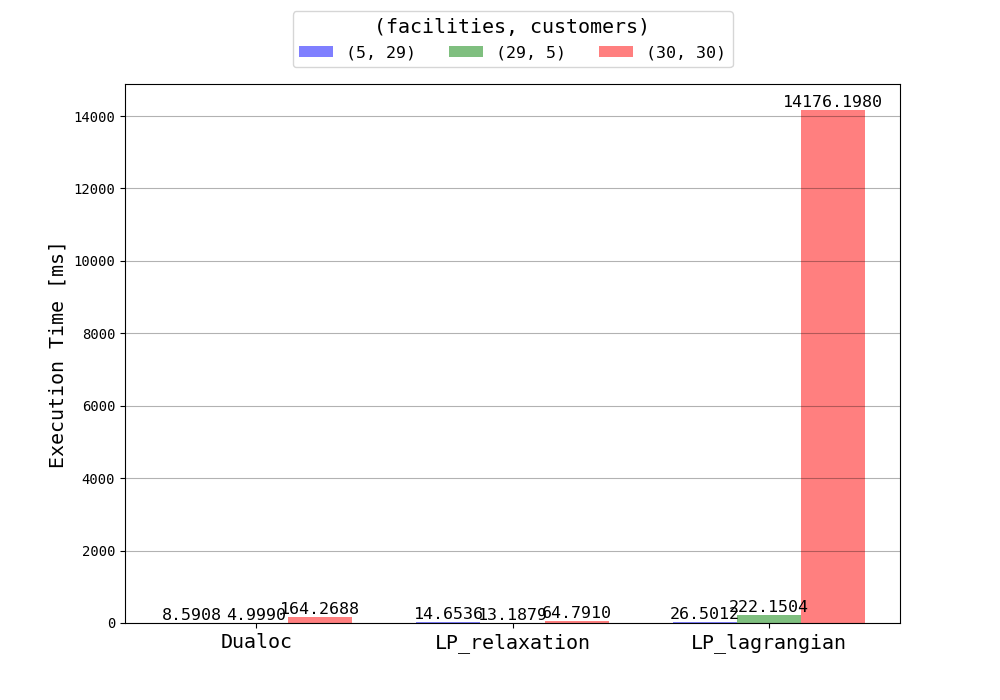
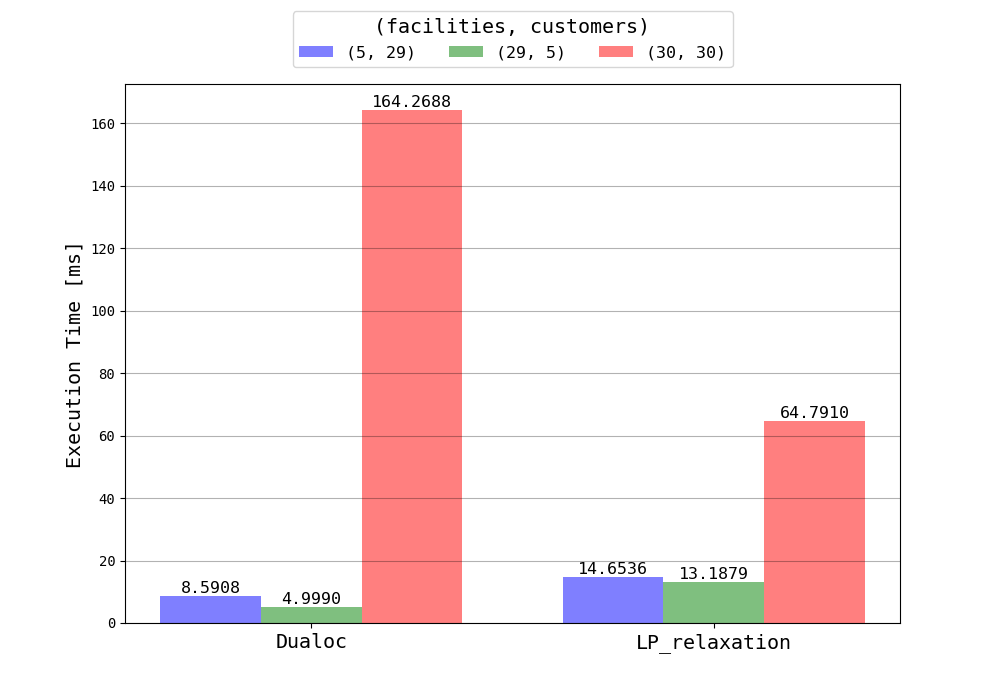
charts added

diff --git a/src/performance/test.py b/src/performance/test.py
@@ -81,9 +81,9 @@ class Test:
             chart = Chart()
 
             chart.error_chart(local_path, self.path +
-                              'chart_error_' + str(t) + '.png', ["Dualoc", "LP_relaxation", "LP_lagrangian"], 0.25)
+                              'chart_error_' + str(t) + '.png', ["Dualoc", "LP_relaxation"], 0.25)
             chart.time_chart(local_path,  self.path +
-                             'chart_time_' + str(t) + '.png', ["Dualoc", "LP_relaxation", "LP_lagrangian"], 0.25)
+                             'chart_time_' + str(t) + '.png', ["Dualoc", "LP_relaxation"], 0.25)
 
             chart.error_chart(local_path, self.path +
                               'chart_error_lagrangian_' + str(t) + '.png', ["LP_lagrangian"], 0.12)
